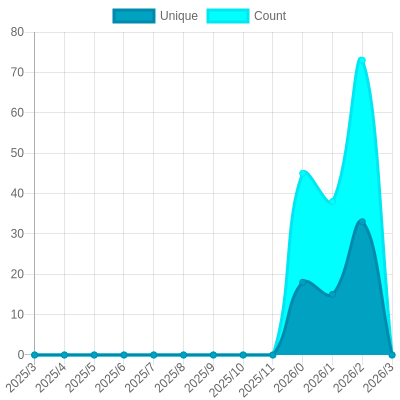
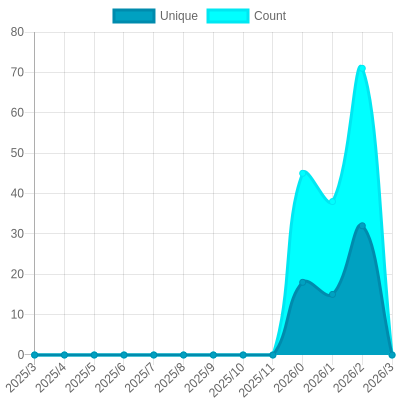
Update views

diff --git a/readme/745838342/year.md b/readme/745838342/year.md
@@ -34,10 +34,10 @@
 			<code>2025/3/1</code>
 		</td>
 		<td>
-			<code>33</code>
+			<code>32</code>
 		</td>
 		<td>
-			<code>73</code>
+			<code>71</code>
 		</td>
 	</tr>
 	<tr>
@@ -164,7 +164,7 @@
 </table>
 
 </details>
-<small><i>Last updated on 2025/4/6 6:11 AM UTC</i></small>
+<small><i>Last updated on 2025/4/6 12:12 PM UTC</i></small>
 
 ## ✂Copy and 📋 Paste
 ### SVG Badge

diff --git a/README.md b/README.md
@@ -85,7 +85,7 @@ The project created and maintained by [gayanvoice](https://github.com/gayanvoice
 	</tr>
 </table>
 
-<small><i>Last updated on 2025/4/6 6:11 AM UTC</i></small>
+<small><i>Last updated on 2025/4/6 12:13 PM UTC</i></small>
 
 ## ✂Copy and 📋 Paste
 ### Total Views Badge

diff --git a/readme/769948634/year.md b/readme/769948634/year.md
@@ -164,7 +164,7 @@
 </table>
 
 </details>
-<small><i>Last updated on 2025/4/6 6:11 AM UTC</i></small>
+<small><i>Last updated on 2025/4/6 12:12 PM UTC</i></small>
 
 ## ✂Copy and 📋 Paste
 ### SVG Badge

diff --git a/readme/823497380/year.md b/readme/823497380/year.md
@@ -164,7 +164,7 @@
 </table>
 
 </details>
-<small><i>Last updated on 2025/4/6 6:10 AM UTC</i></small>
+<small><i>Last updated on 2025/4/6 12:12 PM UTC</i></small>
 
 ## ✂Copy and 📋 Paste
 ### SVG Badge

diff --git a/readme/949845026/year.md b/readme/949845026/year.md
@@ -164,7 +164,7 @@
 </table>
 
 </details>
-<small><i>Last updated on 2025/4/6 6:11 AM UTC</i></small>
+<small><i>Last updated on 2025/4/6 12:12 PM UTC</i></small>
 
 ## ✂Copy and 📋 Paste
 ### SVG Badge
